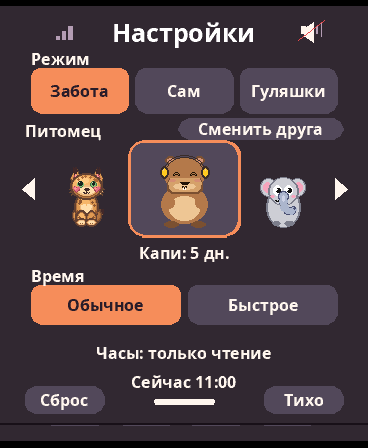
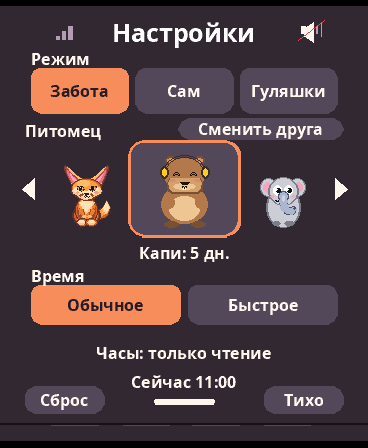
Show the fourteenth pet Fennec in the Russian gallery

Changed region(s): [[0.1793, 0.375, 0.2989, 0.5]]

diff --git a/README.md b/README.md
@@ -14,7 +14,7 @@
   <a href="CREDITOS.md">Благодарности и лицензии</a>
 </p>
 
-> **Статус:** русская прошивка, 13 питомцев и экспериментальный порт AMOLED 1.8 V1 находятся в [PR #2](https://github.com/Medvedolog/medvegoshi/pull/2). В `main` пока остаётся базовая прошивка на основе Capigoshi для IPS 1,83″. Порт V1 ещё не проверен на физической плате; автоустановка V1 отключена. Не прошивайте AMOLED образом IPS.
+> **Статус:** русская прошивка, 14 питомцев и экспериментальный порт AMOLED 1.8 V1 находятся в [PR #2](https://github.com/Medvedolog/medvegoshi/pull/2). В `main` пока остаётся базовая прошивка на основе Capigoshi для IPS 1,83″. Порт V1 ещё не проверен на физической плате; автоустановка V1 отключена. Не прошивайте AMOLED образом IPS.
 
 ## Русский интерфейс
 
@@ -30,7 +30,7 @@
 
 ## Скриншоты
 
-**[Полная галерея: все 13 питомцев](docs/SCREENSHOTS_RU.md).** В галерее есть дневные и ночные сцены, прогулки и русские реплики. Открой картинку, чтобы увидеть интерфейс в полном размере.
+**[Полная галерея: все 14 питомцев](docs/SCREENSHOTS_RU.md).** В галерее есть дневные и ночные сцены, прогулки и русские реплики. Открой картинку, чтобы увидеть интерфейс в полном размере.
 
 **Бйорни** — медвежонок-программист. Он печатает на клавиатуре, бегает в обе стороны, прыгает и радуется. Для игры добавлены отдельные позы сна, голода, кормления, болезни и испуга.
 
@@ -38,11 +38,13 @@
 
 На **AMOLED V1** крупная сцена рисуется прямо в области 368×435, без растягивания старого кадра. Меню, диалоги и метки игрового экрана рисуются в родном разрешении пропорциональным **Noto Sans Bold** без засечек: буквы держат общую базовую линию, края сглажены, а цифры одинаковой ширины, чтобы часы не «прыгали». Глифы хранятся в компактном растровом виде, TTF на устройство не нужен. На **IPS** для кириллицы используется компактный растровый шрифт на основе **DejaVu Sans Mono**. [Шрифт AMOLED и лицензия OFL](https://github.com/Medvedolog/medvegoshi/blob/feature/russian-game-ui/ports/v1_menu_font.py) · [Лицензия шрифта IPS](https://github.com/Medvedolog/medvegoshi/blob/feature/russian-game-ui/docs/FONT_LICENSE.md).
 
-### 13 питомцев
+### 14 питомцев
 
-Девять из Capigoshi: **Капи, Слон, Утка, Осьминог, Попугай, Карамелька, Кот, Пришелец и Лягушонок**. Карамелька остаётся щенком: висячие уши, светлая мордочка и карамельные тени. У неё теперь отдельные движения хвоста, ушей и лап; прежнее сохранение остаётся совместимым. В MedveGoshi к ним добавились **Пип, Жирафик, Бйорни и Рыська**. У каждого своё сохранение: можно сменить питомца, а потом вернуться к прежнему прогрессу. Новые персонажи подключаются через [модульный каталог Zoo](https://github.com/Medvedolog/medvegoshi/tree/feature/russian-game-ui/zoo).
+Девять из Capigoshi: **Капи, Слон, Утка, Осьминог, Попугай, Карамелька, Кот, Пришелец и Лягушонок**. Карамелька остаётся щенком: висячие уши, светлая мордочка и карамельные тени. У неё теперь отдельные движения хвоста, ушей и лап; прежнее сохранение остаётся совместимым. В MedveGoshi к ним добавились **Пип, Жирафик, Бйорни, Рыська и Фенек**. У каждого своё сохранение: можно сменить питомца, а потом вернуться к прежнему прогрессу. Новые персонажи подключаются через [модульный каталог Zoo](https://github.com/Medvedolog/medvegoshi/tree/feature/russian-game-ui/zoo).
 
 **Рыська** — песочная рысь по детскому рисунку: зелёные глаза, кисточки, сердечки на щёчках и светлое сердце на груди. [Рыська крупным планом](docs/SCREENSHOTS_RU.md#рыська-крупным-планом).
+
+**Фенек** — рыжий лисёнок по детскому рисунку, с огромными розовыми ушами, жёлтыми миндалевидными глазами и пушистым хвостом. [Фенек крупным планом](docs/SCREENSHOTS_RU.md#фенек-крупным-планом).
 
 ## Откуда проект
 

diff --git a/docs/SCREENSHOTS_RU.md b/docs/SCREENSHOTS_RU.md
@@ -1,6 +1,6 @@
 # Скриншоты MedveGoshi
 
-[← На главную](../README.md) · [Карамелька в движении](#карамелька-в-движении) · [Рыська крупным планом](#рыська-крупным-планом) · [Бйорни крупным планом](#бйорни-крупным-планом)
+[← На главную](../README.md) · [Карамелька в движении](#карамелька-в-движении) · [Рыська крупным планом](#рыська-крупным-планом) · [Фенек крупным планом](#фенек-крупным-планом) · [Бйорни крупным планом](#бйорни-крупным-планом)
 
 Все кадры сняты в эмуляторе **AMOLED V1, 368×448** из русской сборки [PR #2](https://github.com/Medvedolog/medvegoshi/pull/2). Реплики, часы и метки полей набраны пропорциональным Noto Sans Bold в родном разрешении, как и меню. В крупном режиме сцена рисуется прямо в 368×435 внутри панели, без растягивания кадра 240×284. Карамелька получила новый облик щенка: длинные ушки, светлая мордочка, карамельные тени и мелкие блики на AMOLED. Слева игровой момент, справа тот же питомец в меню «Настройки». Подписи поясняют сцену; реплики в кавычках взяты с экрана. Нажми на кадр, чтобы увеличить.
 
@@ -19,12 +19,20 @@
 | **11. Жирафик**<br>Взрослый на прогулке<br>«Поле 1» | <a href="img/medvegoshi-ru/gallery/girafa-play.png"><img src="img/medvegoshi-ru/gallery/girafa-play.png" width="174" alt="Жирафик — Взрослый на прогулке"></a> | <a href="img/medvegoshi-ru/gallery/girafa-settings.png"><img src="img/medvegoshi-ru/gallery/girafa-settings.png" width="174" alt="Жирафик в меню Настройки"></a> |
 | **12. Бйорни**<br>Вечерние гуляшки<br>«Поле 1» | <a href="img/medvegoshi-ru/gallery/bjorni-play.png"><img src="img/medvegoshi-ru/gallery/bjorni-play.png" width="174" alt="Бйорни — Вечерние гуляшки"></a> | <a href="img/medvegoshi-ru/gallery/bjorni-settings.png"><img src="img/medvegoshi-ru/gallery/bjorni-settings.png" width="174" alt="Бйорни в меню Настройки"></a> |
 | **13. Рыська**<br>Дневной уход | <a href="img/medvegoshi-ru/gallery/ryska-play.png"><img src="img/medvegoshi-ru/gallery/ryska-play.png" width="174" alt="Рыська в игре"></a> | <a href="img/medvegoshi-ru/gallery/ryska-settings.png"><img src="img/medvegoshi-ru/gallery/ryska-settings.png" width="174" alt="Рыська в меню Настройки"></a> |
+| **14. Фенек**<br>Знакомство | <a href="img/medvegoshi-ru/gallery/fennec-play.png"><img src="img/medvegoshi-ru/gallery/fennec-play.png" width="174" alt="Фенек в игре"></a> | <a href="img/medvegoshi-ru/gallery/fennec-settings.png"><img src="img/medvegoshi-ru/gallery/fennec-settings.png" width="174" alt="Фенек в меню Настройки"></a> |
 
 ## Рыська крупным планом
 
 Круглая мордочка, сердечки на щёчках и большое сердце на груди перенесены из детского рисунка. Песочная шерсть, пятнышки, тёмные кисточки на ушах и короткий хвост отличают Рыську от обычного котёнка. На картинке три позы настоящего игрового спрайта.
 
 [![Рыська знакомится, радуется и дремлет](img/medvegoshi-ru/ryska-preview.png)](img/medvegoshi-ru/ryska-preview.png)
+
+
+## Фенек крупным планом
+
+По детскому рисунку сохранили сложенные перед собой лапки и кавайное выражение. По фотографии фенека уточнили силуэт: уши широко расходятся, мордочка сужается книзу, а жёлтые миндалевидные глаза смотрят из-под тёмного ободка. Шерсть осталась рыжей, хвост пушистым.
+
+[![Фенек знакомится, радуется и дремлет](img/medvegoshi-ru/fennec-preview.png)](img/medvegoshi-ru/fennec-preview.png)
 
 
 ## Карамелька в движении
